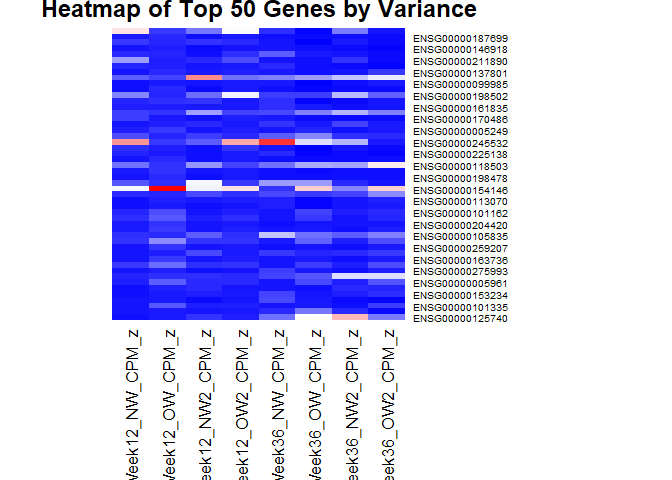
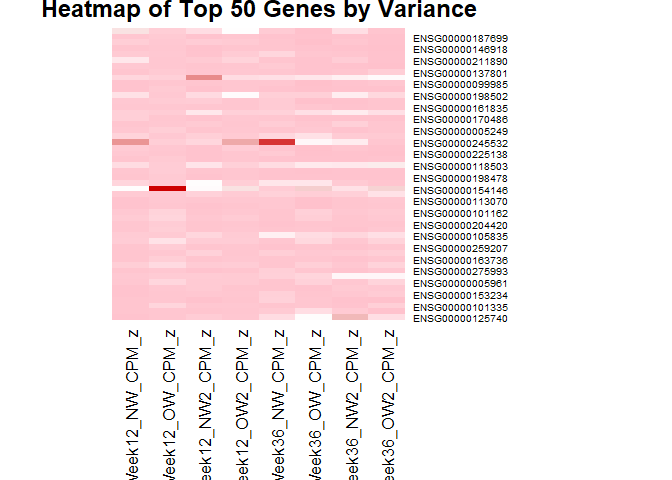
Data visualisation

Changed region(s): [[0.1562, 0.0312, 0.625, 0.6875]]

diff --git a/Projects/t1mge/lizzola_Project1.md b/Projects/t1mge/lizzola_Project1.md
@@ -2,6 +2,13 @@
 
 Import the data
 
+    library(dplyr)
+    library(tidyverse)
+    library(kableExtra)
+
+    data <- read.csv("GSE273780_EukmRNAseq_counts.csv")
+    head(data)
+
     ##   X       Row.names  G58   G52  G25   G84    G2  G60   G41   G36   G73   G79
     ## 1 1 ENSG00000000003   23     0   23     7    14   18    15     3     0    12
     ## 2 2 ENSG00000000005    0     0    0     0     0    0     0     0     0     0
@@ -87,127 +94,59 @@ G9, G12, G32, G45). Rename the columns.
 </tbody>
 </table>
 
-    ##               Gene Week12_NW Week12_OW Week12_NW2 Week12_OW2 Week36_NW
-    ## 1  ENSG00000000003        23        10          7          3        13
-    ## 2  ENSG00000000005         0         0          0          0         0
-    ## 3  ENSG00000000419       494       373        525        450       631
-    ## 4  ENSG00000000457       403       295        281        278       400
-    ## 5  ENSG00000000460        82        60         58         61        99
-    ## 6  ENSG00000000938      8058     12301      13108      13094      8428
-    ## 7  ENSG00000000971         5        19         17         48        33
-    ## 8  ENSG00000001036       297       386        524        436       474
-    ## 9  ENSG00000001084       490       460        394        309       577
-    ## 10 ENSG00000001167       724       629        422        435       653
-    ##    Week36_OW Week36_NW2 Week36_OW2
-    ## 1          6         14          6
-    ## 2          0          0          0
-    ## 3        372        480        399
-    ## 4        192        388        326
-    ## 5         54         84         90
-    ## 6       8108      14931       9630
-    ## 7         11         31          6
-    ## 8        390        558        494
-    ## 9        331        650        536
-    ## 10       463       1111        860
+    filtered_data <- data %>%
+      select(Row.names, G25, G26, G27, G30, G9, G12, G32, G45) %>%
+      rename(Gene = Row.names, 
+             Week12_NW = G25, 
+             Week12_OW = G26, 
+             Week12_NW2 = G27, 
+             Week12_OW2 = G30, 
+             Week36_NW = G9, 
+             Week36_OW = G12, 
+             Week36_NW2 = G32, 
+             Week36_OW2 = G45)
 
 Normalize the data from counts to counts per million (add up all the
 counts per sample and divide each sample by this, then multiply by
 1.000.000). log2 transformation of the counts per million to make the
 data more symmetric.
 
-    ##               Gene Week12_NW Week12_OW Week12_NW2 Week12_OW2 Week36_NW
-    ## 1  ENSG00000000003        23        10          7          3        13
-    ## 2  ENSG00000000005         0         0          0          0         0
-    ## 3  ENSG00000000419       494       373        525        450       631
-    ## 4  ENSG00000000457       403       295        281        278       400
-    ## 5  ENSG00000000460        82        60         58         61        99
-    ## 6  ENSG00000000938      8058     12301      13108      13094      8428
-    ## 7  ENSG00000000971         5        19         17         48        33
-    ## 8  ENSG00000001036       297       386        524        436       474
-    ## 9  ENSG00000001084       490       460        394        309       577
-    ## 10 ENSG00000001167       724       629        422        435       653
-    ##    Week36_OW Week36_NW2 Week36_OW2 Week12_NW_CPM Week12_OW_CPM Week12_NW2_CPM
-    ## 1          6         14          6     1.2817448     0.5800985      0.3800353
-    ## 2          0          0          0     0.0000000     0.0000000      0.0000000
-    ## 3        372        480        399    27.5296502    21.6376725     28.5026453
-    ## 4        192        388        326    22.4583989    17.1129045     15.2557016
-    ## 5         54         84         90     4.5696990     3.4805907      3.1488637
-    ## 6       8108      14931       9630   449.0565215   713.5791129    711.6431894
-    ## 7         11         31          6     0.2786402     1.1021871      0.9229428
-    ## 8        390        558        494    16.5512270    22.3918005     28.4483545
-    ## 9        331        650        536    27.3067381    26.6845291     21.3905567
-    ## 10       463       1111        860    40.3470987    36.4881930     22.9106977
-    ##    Week12_OW2_CPM Week36_NW_CPM Week36_OW_CPM Week36_NW2_CPM Week36_OW2_CPM
-    ## 1       0.1758106      0.857013     0.3820446      0.6326233      0.3219167
-    ## 2       0.0000000      0.000000     0.0000000      0.0000000      0.0000000
-    ## 3      26.3715893     41.598095    23.6867647     21.6899420     21.4074594
-    ## 4      16.2917818     26.369632    12.2254269     17.5327031     17.4908065
-    ## 5       3.5748154      6.526484     3.4384013      3.7957399      4.8287503
-    ## 6     767.3546448    555.608148   516.2695918    674.6927586    516.6762768
-    ## 7       2.8129695      2.175495     0.7004151      1.4008088      0.3219167
-    ## 8      25.5511398     31.248014    24.8328985     25.2145576     26.5044736
-    ## 9      18.1084913     38.038194    21.0761267     29.3717965     28.7578904
-    ## 10     25.4925363     43.048424    29.4811077     50.2031783     46.1413913
-    ##    Week12_NW_CPM_log2 Week12_OW_CPM_log2 Week12_NW2_CPM_log2
-    ## 1           1.1901375          0.6600145           0.4647051
-    ## 2           0.0000000          0.0000000           0.0000000
-    ## 3           4.8343902          4.5006537           4.8827724
-    ## 4           4.5520326          4.1789460           4.0228739
-    ## 5           2.4775994          2.1636890           2.0527163
-    ## 6           8.8139624          9.4809499           9.4770361
-    ## 7           0.3546103          1.0718911           0.9433158
-    ## 8           4.1335000          4.5479310           4.8801151
-    ## 9           4.8230736          4.7910081           4.4848185
-    ## 10          5.3697142          5.2283644           4.5795843
-    ##    Week12_OW2_CPM_log2 Week36_NW_CPM_log2 Week36_OW_CPM_log2
-    ## 1            0.2336557          0.8929839          0.4668042
-    ## 2            0.0000000          0.0000000          0.0000000
-    ## 3            4.7746073          5.4127170          4.6256659
-    ## 4            4.1120146          4.7745041          3.7252424
-    ## 5            2.1937135          2.9119761          2.1500401
-    ## 6            9.5856286          9.1205182          9.0147726
-    ## 7            1.9309150          1.6669813          0.7658870
-    ## 8            4.7307019          5.0111384          4.6911376
-    ## 9            4.2561420          5.2868144          4.4644152
-    ## 10           4.7275141          5.4610185          4.9298434
-    ##    Week36_NW2_CPM_log2 Week36_OW2_CPM_log2
-    ## 1             0.707192           0.4026313
-    ## 2             0.000000           0.0000000
-    ## 3             4.503981           4.4859072
-    ## 4             4.212001           4.2087362
-    ## 5             2.261753           2.5431866
-    ## 6             9.400224           9.0159064
-    ## 7             1.263520           0.4026313
-    ## 8             4.712296           4.7815944
-    ## 9             4.924660           4.8952003
-    ## 10            5.678161           5.5589224
+    total_counts_per_replicate <- colSums(filtered_data[, c("Week12_NW", "Week12_OW", "Week12_NW2", "Week12_OW2", "Week36_NW", "Week36_OW", "Week36_NW2", "Week36_OW2")], na.rm = TRUE)
+
+    normalized_log2_data <- filtered_data %>%
+      mutate(
+        Week12_NW_CPM = Week12_NW / total_counts_per_replicate["Week12_NW"] * 1e6,
+        Week12_OW_CPM = Week12_OW / total_counts_per_replicate["Week12_OW"] * 1e6,
+        Week12_NW2_CPM = Week12_NW2 / total_counts_per_replicate["Week12_NW2"] * 1e6,
+        Week12_OW2_CPM = Week12_OW2 / total_counts_per_replicate["Week12_OW2"] * 1e6,
+        Week36_NW_CPM = Week36_NW / total_counts_per_replicate["Week36_NW"] * 1e6,
+        Week36_OW_CPM = Week36_OW / total_counts_per_replicate["Week36_OW"] * 1e6,
+        Week36_NW2_CPM = Week36_NW2 / total_counts_per_replicate["Week36_NW2"] * 1e6,
+        Week36_OW2_CPM = Week36_OW2 / total_counts_per_replicate["Week36_OW2"] * 1e6) %>%
+      mutate(across(ends_with("_CPM"), ~ log2(. + 1), .names = "{.col}_log2"))
 
 Drop any rows with blank names and count values between 0 and 2.
 
-    ## # A tibble: 10 × 25
-    ##    Gene            Week12_NW Week12_OW Week12_NW2 Week12_OW2 Week36_NW Week36_OW
-    ##    <chr>               <int>     <int>      <int>      <int>     <int>     <int>
-    ##  1 ENSG00000000419       494       373        525        450       631       372
-    ##  2 ENSG00000000457       403       295        281        278       400       192
-    ##  3 ENSG00000000460        82        60         58         61        99        54
-    ##  4 ENSG00000000938      8058     12301      13108      13094      8428      8108
-    ##  5 ENSG00000001036       297       386        524        436       474       390
-    ##  6 ENSG00000001084       490       460        394        309       577       331
-    ##  7 ENSG00000001167       724       629        422        435       653       463
-    ##  8 ENSG00000001461      1301       588        423        430       536       444
-    ##  9 ENSG00000001497      1001       720        913        801       797       755
-    ## 10 ENSG00000001561       599       234        201        279       269        99
-    ## # ℹ 18 more variables: Week36_NW2 <int>, Week36_OW2 <int>, Week12_NW_CPM <dbl>,
-    ## #   Week12_OW_CPM <dbl>, Week12_NW2_CPM <dbl>, Week12_OW2_CPM <dbl>,
-    ## #   Week36_NW_CPM <dbl>, Week36_OW_CPM <dbl>, Week36_NW2_CPM <dbl>,
-    ## #   Week36_OW2_CPM <dbl>, Week12_NW_CPM_log2 <dbl>, Week12_OW_CPM_log2 <dbl>,
-    ## #   Week12_NW2_CPM_log2 <dbl>, Week12_OW2_CPM_log2 <dbl>,
-    ## #   Week36_NW_CPM_log2 <dbl>, Week36_OW_CPM_log2 <dbl>,
-    ## #   Week36_NW2_CPM_log2 <dbl>, Week36_OW2_CPM_log2 <dbl>
+    normalized_log2_data <- normalized_log2_data %>%
+      filter(!is.na(Gene) & Gene != "") %>%
+      rowwise() %>%
+      filter(all(c_across(ends_with("_log2")) >= 2)) %>%
+      ungroup()
 
 Calculate the z-Value of each count in new columns by subtracting the
 normalized count value by the mean of the column and divide by the
 columns standard deviation.
+
+    heatmap_data <- normalized_log2_data %>%
+      mutate(across(
+        ends_with("_CPM"),
+        ~ (. - mean(., na.rm = TRUE)) / sd(., na.rm = TRUE),
+        .names = "{.col}_z"
+      ))
+
+    heatmap_data %>%
+      select(Gene, ends_with("_CPM_z")) %>%
+      head(10)
 
     ## # A tibble: 10 × 9
     ##    Gene        Week12_NW_CPM_z Week12_OW_CPM_z Week12_NW2_CPM_z Week12_OW2_CPM_z
@@ -228,6 +167,15 @@ columns standard deviation.
 Calculate the variance of the log2 transformed counts by rows and put it
 in a new column.
 
+    heatmap_data <- heatmap_data %>%
+      rowwise() %>%
+      mutate(log2_CPM_variance = var(c_across(ends_with("_log2")), na.rm = TRUE)) %>%
+      ungroup()
+
+    heatmap_data %>%
+      select(Gene, log2_CPM_variance, ends_with("_CPM_z")) %>%
+      head(10)
+
     ## # A tibble: 10 × 10
     ##    Gene       log2_CPM_variance Week12_NW_CPM_z Week12_OW_CPM_z Week12_NW2_CPM_z
     ##    <chr>                  <dbl>           <dbl>           <dbl>            <dbl>
@@ -245,6 +193,25 @@ in a new column.
     ## #   Week36_OW_CPM_z <dbl>, Week36_NW2_CPM_z <dbl>, Week36_OW2_CPM_z <dbl>
 
 ## Data visualization
+
+    heatmap_data <- heatmap_data %>%
+      select(Gene, log2_CPM_variance, ends_with("_CPM_z")) %>%
+      arrange(desc(log2_CPM_variance)) %>%
+      slice_head(n = 50)
+
+    heatmap_matrix <- heatmap_data %>%
+      column_to_rownames("Gene") %>%
+      select(-log2_CPM_variance) %>%
+      as.matrix()
+
+    heatmap(heatmap_matrix,
+      scale = "column",
+      Rowv = NA,
+      Colv = NA,
+      col = colorRampPalette(c("pink", "white", "red3"))(100),
+      margins = c(10, 10),
+      main = "Heatmap of Top 50 Genes by Variance"
+    )
 
 ![](lizzola_Project1_files/figure-markdown_strict/heatmap-1.png)
 
